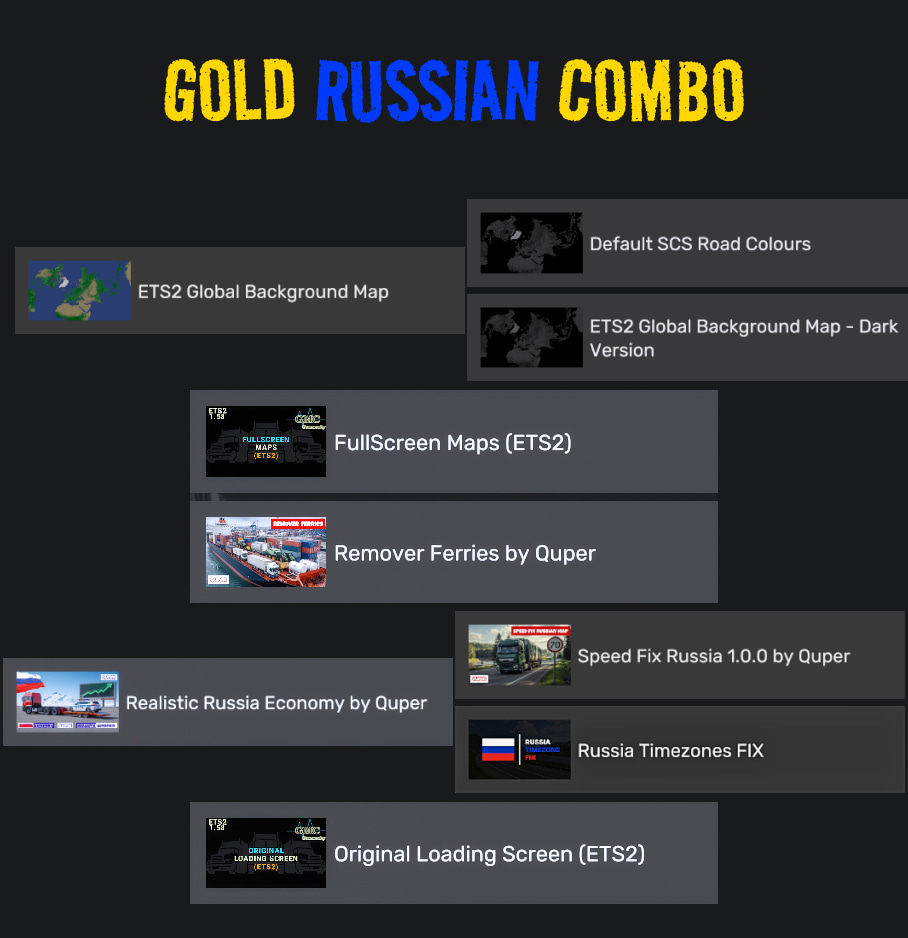
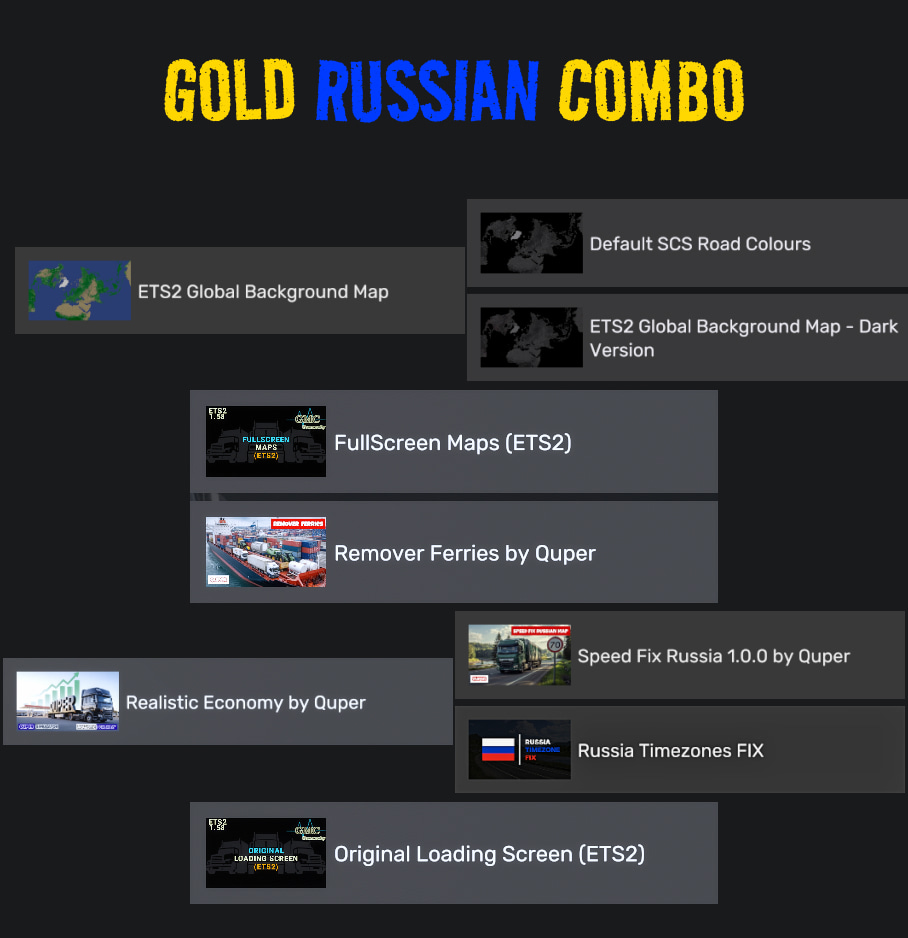
upd gold

Changed region(s): [[0.0, 0.7111, 0.4626, 0.8038]]

diff --git a/src/data/combos/v1.58.js b/src/data/combos/v1.58.js
@@ -37,14 +37,14 @@ export const combos_v1_58 = [
     title: "GOLD RUSSIA MAP COMBO",
     preview: "img/combos/158/ets2-gold/gold-russia-preview.jpg",
     version_game: "1.58",
-    version: "1.1",
-    date: "28.02.26",
+    version: "1.2",
+    date: "03.03.26",
     //video: "q6uNIn1y_KI",
     image_top: "img/combos/158/ets2-gold/gold-russia-top.jpg",
     image_bottom: "img/combos/158/ets2-gold/gold-russia-bottom.jpg",
     table:
       "https://docs.google.com/spreadsheets/d/1jRDPO0Mhepox1kFe2sslD9Ac_6NCelo-t770o25bFKU/edit?gid=1242893690#gid=1242893690",
-    profile: "https://sharemods.com/y5wkgfhppug5/1.58_GOLD_RUSSIA_1.1.zip.html",
+    profile: "https://sharemods.com/9kv8gg9lqygt/1.58_GOLD_RUSSIA_1.2.zip.html",
   },
   {
     id: "eurasia-map-158",
